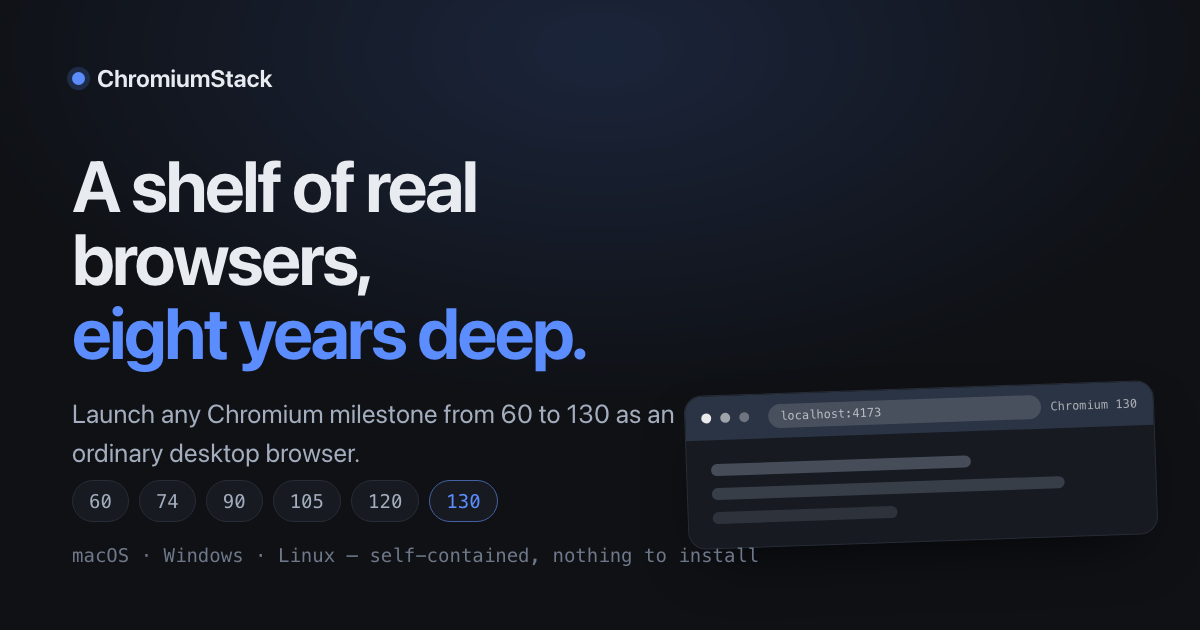
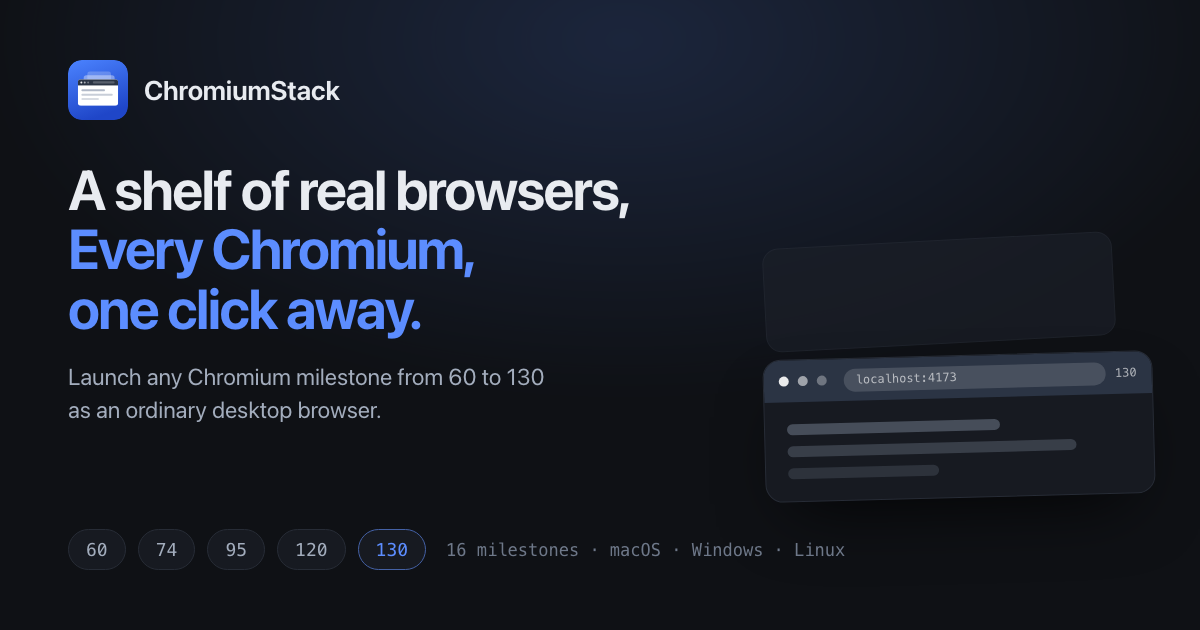
feat: update landing page

diff --git a/docs/index.html b/docs/index.html
@@ -59,8 +59,12 @@ a{color:var(--accent);text-decoration:none}
 a:hover{color:var(--ink);text-decoration:underline}
 :focus-visible{outline:2px solid var(--accent);outline-offset:3px;border-radius:4px}
 summary::-webkit-details-marker{display:none}
+.ic{width:1em;height:1em;flex:none;fill:none;stroke:currentColor;stroke-width:1.7;stroke-linecap:round;stroke-linejoin:round;overflow:visible}
+.ic-lg{width:1.15em;height:1.15em}
 .skip{position:absolute;left:-9999px;top:0;z-index:50;padding:10px 16px;border-radius:0 0 10px 0;background:var(--accent);color:#fff;font-size:14px;font-weight:600}
 .skip:focus{left:0;color:#fff;text-decoration:none}
+[data-lp] header{transition:box-shadow .25s,background-color .25s}
+[data-lp] header[data-stuck]{box-shadow:0 10px 30px -18px rgba(0,0,0,.7);background:color-mix(in srgb,var(--bg) 92%,transparent)}
 [data-reveal]{opacity:0;transform:translateY(22px);transition:opacity .75s cubic-bezier(.2,.7,.2,1),transform .75s cubic-bezier(.2,.7,.2,1)}
 [data-reveal="in"]{opacity:1;transform:none}
 details[open] [data-chev]{transform:rotate(45deg)}
@@ -84,11 +88,11 @@ details[open] [data-chev]{transform:rotate(45deg)}
   [data-r="hero"],[data-r="two"]{grid-template-columns:minmax(0,1fr)!important;gap:40px!important}
   [data-r="stack"]{height:340px!important;order:-1}
   [data-r="nav"]{display:none!important}
-  [data-lp] section,[data-lp] section>div{padding-top:56px!important;padding-bottom:56px!important}
+  [data-lp] section,[data-lp] .sec-wrap{padding-top:56px!important;padding-bottom:56px!important}
 }
 @media (max-width:680px){
   [data-lp] header{padding-left:18px!important;padding-right:18px!important;gap:10px}
-  [data-lp] section,[data-lp] section>div,[data-lp] footer>div{padding-left:18px!important;padding-right:18px!important}
+  [data-lp] section,[data-lp] .sec-wrap{padding-left:18px!important;padding-right:18px!important}
   [data-lp] [data-r="stack"]{height:270px!important}
   [data-lp] [data-r="ticks"] span{font-size:9px}
   [data-lp] [data-r="stats"]{gap:20px!important}
@@ -231,11 +235,32 @@ details[open] [data-chev]{transform:rotate(45deg)}
 </head>
 <body>
 
-<div data-lp style="position:relative;overflow:hidden">
+<div data-lp style="position:relative;overflow-x:clip">
 
 <a href="#content" class="skip">Skip to content</a>
 
+<svg width="0" height="0" style="position:absolute" aria-hidden="true" focusable="false"><defs>
+<symbol id="i-download" viewBox="0 0 24 24"><path d="M12 3v11"/><path d="M7.5 10.5 12 15l4.5-4.5"/><path d="M4 20h16"/></symbol>
+<symbol id="i-mac" viewBox="0 0 24 24"><rect x="2.5" y="4.5" width="19" height="13" rx="2.5"/><path d="M2.5 8.6h19"/><circle cx="5.7" cy="6.5" r=".95" fill="currentColor" stroke="none"/><circle cx="8.3" cy="6.5" r=".95" fill="currentColor" stroke="none"/><circle cx="10.9" cy="6.5" r=".95" fill="currentColor" stroke="none"/><path d="M8.5 20.5h7"/><path d="M12 17.5v3"/></symbol>
+<symbol id="i-windows" viewBox="0 0 24 24"><path fill="currentColor" stroke="none" d="M3 5.9 10.3 4.9v6.9H3zM11.6 4.7 21 3.3v8.5h-9.4zM3 12.9h7.3v6.9L3 18.8zM11.6 12.9H21v8.5l-9.4-1.4z"/></symbol>
+<symbol id="i-terminal" viewBox="0 0 24 24"><rect x="2.5" y="4.5" width="19" height="15" rx="2.5"/><path d="M7 9.6l3 2.9-3 2.9"/><path d="M12.6 15.4h4.8"/></symbol>
+<symbol id="i-monitor" viewBox="0 0 24 24"><rect x="2.5" y="4" width="19" height="12.5" rx="2"/><path d="M9 20.5h6"/><path d="M12 16.5v4"/></symbol>
+<symbol id="i-ticket" viewBox="0 0 24 24"><path d="M21 11.5c0 4.4-4 8-9 8a10 10 0 0 1-2.8-.4L4.5 21l1.7-4.2A7.6 7.6 0 0 1 3 11.5c0-4.4 4-8 9-8s9 3.6 9 8z"/><path d="M12 8.6v3.4"/><path d="M12 15.3v.01"/></symbol>
+<symbol id="i-list" viewBox="0 0 24 24"><path d="M9.5 6h11"/><path d="M9.5 12h11"/><path d="M9.5 18h11"/><path d="M3.5 5.9 4.7 7.1 6.9 4.8"/><path d="M3.5 11.9l1.2 1.2 2.2-2.3"/><path d="M3.5 17.9l1.2 1.2 2.2-2.3"/></symbol>
+<symbol id="i-branch" viewBox="0 0 24 24"><circle cx="6.5" cy="5.5" r="2.3"/><circle cx="6.5" cy="18.5" r="2.3"/><circle cx="17.5" cy="9" r="2.3"/><path d="M6.5 7.8v8.4"/><path d="M17.5 11.3c0 3.5-2.9 5-7.2 5.4"/></symbol>
+<symbol id="i-mail" viewBox="0 0 24 24"><rect x="2.5" y="5" width="19" height="14" rx="2.5"/><path d="M3.6 7.2 12 13l8.4-5.8"/></symbol>
+<symbol id="i-code" viewBox="0 0 24 24"><path d="M8.5 18 3.5 12l5-6"/><path d="M15.5 6l5 6-5 6"/><path d="M13.6 4.5 10.4 19.5"/></symbol>
+<symbol id="i-bulb" viewBox="0 0 24 24"><path d="M12 3a6 6 0 0 0-3.6 10.8c.7.6 1.1 1.3 1.1 2.2h5c0-.9.4-1.6 1.1-2.2A6 6 0 0 0 12 3z"/><path d="M9.5 19h5"/><path d="M10.5 21.5h3"/></symbol>
+<symbol id="i-box" viewBox="0 0 24 24"><rect x="3" y="9.5" width="6" height="5" rx="1"/><rect x="10.2" y="9.5" width="6" height="5" rx="1"/><rect x="10.2" y="4" width="6" height="5" rx="1"/><path d="M2 17.4c2.4 2.9 5.8 4 8.8 4 5.4 0 9-3 10.6-7.4-1.6-1-3.7-1-5.2 0"/></symbol>
+<symbol id="i-layers" viewBox="0 0 24 24"><path d="M12 3.2 21 7.8l-9 4.6-9-4.6z"/><path d="M3.3 12.4 12 16.9l8.7-4.5"/><path d="M3.3 16.6 12 21.1l8.7-4.5"/></symbol>
+<symbol id="i-zap" viewBox="0 0 24 24"><path d="M13.2 2.5 5 13.6h6.1l-1.3 7.9 8.2-11.1h-6.1z"/></symbol>
+<symbol id="i-help" viewBox="0 0 24 24"><circle cx="12" cy="12" r="8.8"/><path d="M9.6 9.5a2.5 2.5 0 0 1 4.9.6c0 1.7-2.5 2.1-2.5 3.8"/><path d="M12 17.3v.01"/></symbol>
+</defs></svg>
+
+
+<div aria-hidden="true" style="position:absolute;inset:0;overflow:hidden;pointer-events:none;z-index:0">
 <div style="position:absolute;top:-260px;left:50%;width:1200px;height:620px;margin-left:-600px;background:radial-gradient(closest-side,var(--accent),transparent);opacity:.14;filter:blur(20px);pointer-events:none;animation:glowdrift 18s ease-in-out infinite"></div>
+</div>
 
 <header style="position:sticky;top:0;z-index:20;display:flex;align-items:center;gap:14px;padding:13px 28px;background:color-mix(in srgb,var(--bg) 82%,transparent);backdrop-filter:blur(14px);border-bottom:1px solid var(--line)">
   <div style="display:flex;align-items:center;gap:9px">
@@ -252,7 +277,7 @@ details[open] [data-chev]{transform:rotate(45deg)}
     <a href="#contact" style="color:inherit">Contact</a>
   </nav>
   <button id="themeBtn" type="button" title="Switch theme" aria-label="Switch colour theme" style="display:flex;align-items:center;gap:7px;font:inherit;font-size:12.5px;padding:6px 11px;border:1px solid var(--line);border-radius:999px;background:var(--panel);color:var(--ink-2);cursor:pointer;transition:border-color .2s,color .2s" class="hv-theme"><span id="themeLabel">Light</span></button>
-  <a href="#download" style="font-size:13px;font-weight:600;padding:7px 15px;border-radius:999px;background:var(--accent);color:#fff;transition:transform .18s,box-shadow .18s" class="hv-pill">Download</a>
+  <a href="#download" style="display:inline-flex;align-items:center;gap:7px;font-size:13px;font-weight:600;padding:7px 15px;border-radius:999px;background:var(--accent);color:#fff;transition:transform .18s,box-shadow .18s" class="hv-pill"><svg class="ic" aria-hidden="true"><use href="#i-download"/></svg><span>Download</span></a>
 </header>
 
 <main id="content">
@@ -262,7 +287,7 @@ details[open] [data-chev]{transform:rotate(45deg)}
     <h1 data-reveal style="margin:0;font-size:clamp(40px,5.2vw,64px);line-height:1.02;letter-spacing:-.035em;font-weight:680;text-wrap:balance">A shelf of real browsers,<br><span style="color:var(--accent)">Every Chromium, one click away.</span></h1>
     <p data-reveal style="margin:24px 0 0;max-width:46ch;font-size:18px;line-height:1.6;color:var(--ink-2);text-wrap:pretty">Pick a Chromium version, press Launch, and it opens as an ordinary desktop browser — tabs, bookmarks, DevTools and all. No account, no build step, nothing to configure.</p>
     <div data-reveal style="display:flex;flex-wrap:wrap;gap:12px;margin-top:34px">
-      <a href="#download" style="display:flex;align-items:center;gap:9px;font-size:15px;font-weight:600;padding:13px 22px;border-radius:11px;background:var(--accent);color:#fff;box-shadow:0 14px 30px -14px var(--accent);transition:transform .18s" class="hv-cta">Download for your platform</a>
+      <a href="#download" style="display:flex;align-items:center;gap:9px;font-size:15px;font-weight:600;padding:13px 22px;border-radius:11px;background:var(--accent);color:#fff;box-shadow:0 14px 30px -14px var(--accent);transition:transform .18s" class="hv-cta"><svg class="ic ic-lg" aria-hidden="true"><use href="#i-download"/></svg><span>Download for your platform</span></a>
     </div>
     <div data-reveal data-stats data-r="stats" style="display:flex;flex-wrap:wrap;gap:34px;margin-top:44px;padding-top:28px;border-top:1px solid var(--line)">
       <div><div style="font-size:26px;font-weight:650;letter-spacing:-.02em;font-variant-numeric:tabular-nums"><span id="statM">0</span></div><div style="margin-top:3px;font-size:12.5px;color:var(--ink-3)">milestones catalogued</div></div>
@@ -311,28 +336,28 @@ details[open] [data-chev]{transform:rotate(45deg)}
 </section>
 
 <section id="why" style="max-width:1160px;margin:0 auto;padding:76px 28px">
-  <div data-reveal style="font-family:var(--mono);font-size:11.5px;letter-spacing:.08em;text-transform:uppercase;color:var(--ink-3)">Why people keep one of these around</div>
+  <div data-reveal style="display:inline-flex;align-items:center;gap:8px;font-family:var(--mono);font-size:11.5px;letter-spacing:.08em;text-transform:uppercase;color:var(--ink-3)"><svg class="ic" aria-hidden="true"><use href="#i-help"/></svg><span>Why people keep one of these around</span></div>
   <h2 data-reveal style="margin:14px 0 0;max-width:30ch;font-size:clamp(28px,3.4vw,40px);line-height:1.12;letter-spacing:-.028em;font-weight:660;text-wrap:balance">Modern browsers are excellent liars.</h2>
   <p data-reveal style="margin:18px 0 0;max-width:62ch;font-size:16.5px;line-height:1.65;color:var(--ink-2);text-wrap:pretty">They quietly polyfill, gracefully degrade and make your site look finished — right up until it meets an engine from 2019, where an unsupported CSS declaration is <strong style="color:var(--ink);font-weight:600">dropped, not degraded</strong>, and a layout falls apart in a way nothing on your machine will ever show you.</p>
 
   <div style="display:grid;grid-template-columns:repeat(auto-fit,minmax(255px,1fr));gap:16px;margin-top:44px">
     <div data-reveal style="padding:24px;border:1px solid var(--line);border-radius:14px;background:var(--panel);transition:transform .25s,border-color .25s,box-shadow .25s" class="hv-card">
-      <div style="font-family:var(--mono);font-size:11px;letter-spacing:.06em;text-transform:uppercase;color:var(--accent)">Kiosks &amp; devices</div>
+      <div style="display:inline-flex;align-items:center;gap:8px;font-family:var(--mono);font-size:11px;letter-spacing:.06em;text-transform:uppercase;color:var(--accent)"><svg class="ic" aria-hidden="true"><use href="#i-monitor"/></svg><span>Kiosks &amp; devices</span></div>
       <p style="margin:12px 0 0;font-size:14.5px;line-height:1.6;color:var(--ink-2)">POS terminals, scanners and industrial tablets ship a System WebView years behind the OS. It is the <em>engine</em> that decides whether your CSS survives.</p>
       <p style="margin:14px 0 0;padding-top:14px;border-top:1px solid var(--line);font-size:14.5px;line-height:1.6;color:var(--ink)">The same engine on your desk, in a window you can click around in.</p>
     </div>
     <div data-reveal style="padding:24px;border:1px solid var(--line);border-radius:14px;background:var(--panel);transition:transform .25s,border-color .25s,box-shadow .25s" class="hv-card">
-      <div style="font-family:var(--mono);font-size:11px;letter-spacing:.06em;text-transform:uppercase;color:var(--accent)">The support ticket</div>
+      <div style="display:inline-flex;align-items:center;gap:8px;font-family:var(--mono);font-size:11px;letter-spacing:.06em;text-transform:uppercase;color:var(--accent)"><svg class="ic" aria-hidden="true"><use href="#i-ticket"/></svg><span>The support ticket</span></div>
       <p style="margin:12px 0 0;font-size:14.5px;line-height:1.6;color:var(--ink-2)">A customer on a locked-down browser reports a bug you cannot reproduce anywhere.</p>
       <p style="margin:14px 0 0;padding-top:14px;border-top:1px solid var(--line);font-size:14.5px;line-height:1.6;color:var(--ink)">Open their engine, load the page, see it happen.</p>
     </div>
     <div data-reveal style="padding:24px;border:1px solid var(--line);border-radius:14px;background:var(--panel);transition:transform .25s,border-color .25s,box-shadow .25s" class="hv-card">
-      <div style="font-family:var(--mono);font-size:11px;letter-spacing:.06em;text-transform:uppercase;color:var(--accent)">The browserslist claim</div>
+      <div style="display:inline-flex;align-items:center;gap:8px;font-family:var(--mono);font-size:11px;letter-spacing:.06em;text-transform:uppercase;color:var(--accent)"><svg class="ic" aria-hidden="true"><use href="#i-list"/></svg><span>The browserslist claim</span></div>
       <p style="margin:12px 0 0;font-size:14.5px;line-height:1.6;color:var(--ink-2)">Your config promises support for an old floor. Nobody has ever checked.</p>
       <p style="margin:14px 0 0;padding-top:14px;border-top:1px solid var(--line);font-size:14.5px;line-height:1.6;color:var(--ink)">Two minutes to find out whether the promise is true.</p>
     </div>
     <div data-reveal style="padding:24px;border:1px solid var(--line);border-radius:14px;background:var(--panel);transition:transform .25s,border-color .25s,box-shadow .25s" class="hv-card">
-      <div style="font-family:var(--mono);font-size:11px;letter-spacing:.06em;text-transform:uppercase;color:var(--accent)">The regression hunt</div>
+      <div style="display:inline-flex;align-items:center;gap:8px;font-family:var(--mono);font-size:11px;letter-spacing:.06em;text-transform:uppercase;color:var(--accent)"><svg class="ic" aria-hidden="true"><use href="#i-branch"/></svg><span>The regression hunt</span></div>
       <p style="margin:12px 0 0;font-size:14.5px;line-height:1.6;color:var(--ink-2)">Something broke <em>somewhere</em> between two releases.</p>
       <p style="margin:14px 0 0;padding-top:14px;border-top:1px solid var(--line);font-size:14.5px;line-height:1.6;color:var(--ink)">90, 105 and 120 open side by side, bisected by eye.</p>
     </div>
@@ -340,7 +365,7 @@ details[open] [data-chev]{transform:rotate(45deg)}
 </section>
 
 <section id="start" style="max-width:1160px;margin:0 auto;padding:76px 28px">
-  <h2 data-reveal style="margin:0;font-family:var(--mono);font-size:11.5px;font-weight:400;letter-spacing:.08em;text-transform:uppercase;color:var(--ink-3)">Sixty seconds to your first old browser</h2>
+  <h2 data-reveal style="display:inline-flex;align-items:center;gap:8px;margin:0;font-family:var(--mono);font-size:11.5px;font-weight:400;letter-spacing:.08em;text-transform:uppercase;color:var(--ink-3)"><svg class="ic" aria-hidden="true"><use href="#i-zap"/></svg><span>Sixty seconds to your first old browser</span></h2>
   <div style="display:grid;grid-template-columns:repeat(auto-fit,minmax(260px,1fr));gap:26px;margin-top:32px">
     <div data-reveal>
       <div style="display:flex;align-items:center;gap:10px"><span style="display:flex;align-items:center;justify-content:center;width:26px;height:26px;border-radius:8px;background:color-mix(in srgb,var(--accent) 16%,transparent);color:var(--accent);font-family:var(--mono);font-size:12.5px;font-weight:600">1</span><h3 style="margin:0;font-size:17px;font-weight:620;letter-spacing:-.01em">Open it</h3></div>
@@ -367,14 +392,14 @@ details[open] [data-chev]{transform:rotate(45deg)}
   </figure>
 
   <div data-reveal style="display:flex;gap:14px;margin-top:26px;padding:18px 20px;border:1px solid color-mix(in srgb,var(--ok) 40%,var(--line));border-radius:12px;background:color-mix(in srgb,var(--ok) 7%,var(--panel))">
-    <span style="font-family:var(--mono);font-size:11px;letter-spacing:.06em;text-transform:uppercase;color:var(--ok);padding-top:2px">Tip</span>
+    <span style="font-family:var(--mono);font-size:11px;letter-spacing:.06em;text-transform:uppercase;color:var(--ok);padding-top:2px;display:inline-flex;align-items:center;gap:7px"><svg class="ic" aria-hidden="true"><use href="#i-bulb"/></svg><span>Tip</span></span>
     <p style="margin:0;font-size:14.5px;line-height:1.62;color:var(--ink-2)">Type a URL in the box at the top of the manager and <strong style="color:var(--ink);font-weight:600">every</strong> version you launch opens straight to it. <code style="font-family:var(--mono);font-size:13px;color:var(--ink)">localhost:4173</code> is fine — it is the fastest way to compare four engines on the same page.</p>
   </div>
 </section>
 
 <section id="shelf" style="border-top:1px solid var(--line);border-bottom:1px solid var(--line);background:var(--panel-2)">
-  <div style="max-width:1160px;margin:0 auto;padding:76px 28px">
-    <div data-reveal style="font-family:var(--mono);font-size:11.5px;letter-spacing:.08em;text-transform:uppercase;color:var(--ink-3)">The version shelf</div>
+  <div class="sec-wrap" style="max-width:1160px;margin:0 auto;padding:76px 28px">
+    <div data-reveal style="display:inline-flex;align-items:center;gap:8px;font-family:var(--mono);font-size:11.5px;letter-spacing:.08em;text-transform:uppercase;color:var(--ink-3)"><svg class="ic" aria-hidden="true"><use href="#i-layers"/></svg><span>The version shelf</span></div>
     <h2 data-reveal style="margin:14px 0 0;max-width:34ch;font-size:clamp(26px,3.2vw,38px);line-height:1.14;letter-spacing:-.028em;font-weight:660;text-wrap:balance">Sixteen milestones, verified against the live archive.</h2>
     <p data-reveal style="margin:16px 0 0;max-width:58ch;font-size:16px;line-height:1.65;color:var(--ink-2)">And any other snapshot revision works too. Drag the scrubber, or click a year.</p>
 
@@ -447,7 +472,7 @@ details[open] [data-chev]{transform:rotate(45deg)}
 <section id="cli" style="max-width:1160px;margin:0 auto;padding:84px 28px">
   <div data-r="two" style="display:grid;grid-template-columns:minmax(0,.85fr) minmax(0,1.15fr);gap:52px;align-items:center">
     <div>
-      <div data-reveal style="font-family:var(--mono);font-size:11.5px;letter-spacing:.08em;text-transform:uppercase;color:var(--ink-3)">For terminal people</div>
+      <div data-reveal style="display:inline-flex;align-items:center;gap:8px;font-family:var(--mono);font-size:11.5px;letter-spacing:.08em;text-transform:uppercase;color:var(--ink-3)"><svg class="ic" aria-hidden="true"><use href="#i-terminal"/></svg><span>For terminal people</span></div>
       <h2 data-reveal style="margin:14px 0 0;font-size:clamp(26px,3.2vw,38px);line-height:1.14;letter-spacing:-.028em;font-weight:660;text-wrap:balance">The manager is a front end for the CLI.</h2>
       <p data-reveal style="margin:16px 0 0;font-size:16px;line-height:1.65;color:var(--ink-2);text-wrap:pretty">Both do the same things, so they cannot drift apart. Flags for <code style="font-family:var(--mono);font-size:14px;color:var(--ink)">run</code>: <code style="font-family:var(--mono);font-size:14px;color:var(--ink)">--size 1280x800</code>, <code style="font-family:var(--mono);font-size:14px;color:var(--ink)">--gpu</code> / <code style="font-family:var(--mono);font-size:14px;color:var(--ink)">--no-gpu</code>, <code style="font-family:var(--mono);font-size:14px;color:var(--ink)">--no-restart</code>, and anything after <code style="font-family:var(--mono);font-size:14px;color:var(--ink)">--</code> goes straight to Chromium.</p>
       <p data-reveal style="margin:16px 0 0;font-size:16px;line-height:1.65;color:var(--ink-2)">Windows runs the same commands through <code style="font-family:var(--mono);font-size:14px;color:var(--ink)">.\chromium-stack.ps1</code>.</p>
@@ -469,9 +494,9 @@ details[open] [data-chev]{transform:rotate(45deg)}
 </section>
 
 <section style="border-top:1px solid var(--line);background:var(--panel-2)">
-  <div data-r="two" style="max-width:1160px;margin:0 auto;padding:76px 28px;display:grid;grid-template-columns:minmax(0,1fr) minmax(0,1fr);gap:52px">
+  <div class="sec-wrap" data-r="two" style="max-width:1160px;margin:0 auto;padding:76px 28px;display:grid;grid-template-columns:minmax(0,1fr) minmax(0,1fr);gap:52px">
     <div>
-      <div data-reveal style="font-family:var(--mono);font-size:11.5px;letter-spacing:.08em;text-transform:uppercase;color:var(--ink-3)">Docker edition</div>
+      <div data-reveal style="display:inline-flex;align-items:center;gap:8px;font-family:var(--mono);font-size:11.5px;letter-spacing:.08em;text-transform:uppercase;color:var(--ink-3)"><svg class="ic" aria-hidden="true"><use href="#i-box"/></svg><span>Docker edition</span></div>
       <h2 data-reveal style="margin:14px 0 0;font-size:clamp(24px,2.7vw,32px);line-height:1.16;letter-spacing:-.026em;font-weight:660;text-wrap:balance">The Linux build in a container, shown in a browser tab.</h2>
       <p data-reveal style="margin:16px 0 0;font-size:15.5px;line-height:1.65;color:var(--ink-2);text-wrap:pretty">Runs the Linux x86_64 build in a container and shows its desktop in a tab of your normal browser, over noVNC. It never touches Rosetta, so on Apple Silicon it sidesteps the stack-profiler crash.</p>
       <p data-reveal style="margin:16px 0 0;font-size:15.5px;line-height:1.65;color:var(--ink-2);text-wrap:pretty">Each version gets its own image, container, profile volume and port, so several can run side by side. <strong style="color:var(--ink);font-weight:600">Docker is optional</strong>, and the native launcher is what most people should use.</p>
@@ -489,24 +514,35 @@ details[open] [data-chev]{transform:rotate(45deg)}
 </section>
 
 <section id="download" style="max-width:1160px;margin:0 auto;padding:88px 28px">
-  <div data-reveal style="font-family:var(--mono);font-size:11.5px;letter-spacing:.08em;text-transform:uppercase;color:var(--ink-3)">Download</div>
+  <div data-reveal style="display:inline-flex;align-items:center;gap:8px;font-family:var(--mono);font-size:11.5px;letter-spacing:.08em;text-transform:uppercase;color:var(--ink-3)"><svg class="ic" aria-hidden="true"><use href="#i-download"/></svg><span>Download</span></div>
   <h2 data-reveal style="margin:14px 0 0;max-width:32ch;font-size:clamp(28px,3.4vw,40px);line-height:1.12;letter-spacing:-.028em;font-weight:660;text-wrap:balance">Every download is self-contained.</h2>
   <p data-reveal style="margin:16px 0 0;max-width:60ch;font-size:16.5px;line-height:1.65;color:var(--ink-2);text-wrap:pretty">The launcher finds everything it needs inside the package. Nothing to install, nothing to keep together, no loose folder of files to lose.</p>
 
-  <div style="display:grid;grid-template-columns:repeat(auto-fit,minmax(268px,1fr));gap:16px;margin-top:40px">
-    <a data-reveal href="https://github.com/1m93/Chromium-Stack/releases/latest" target="_blank" rel="noopener noreferrer" style="display:block;padding:24px;border:1px solid var(--line);border-radius:14px;background:var(--panel);color:var(--ink);transition:transform .25s,border-color .25s,box-shadow .25s" class="hv-link">
-      <div style="font-size:18px;font-weight:640;letter-spacing:-.015em">macOS</div>
-      <div style="margin-top:10px;font-family:var(--mono);font-size:12.5px;color:var(--accent)">ChromiumStack-&lt;ver&gt;-macOS.zip</div>
+  <div data-reveal id="dlPrimary" style="display:flex;flex-wrap:wrap;align-items:center;gap:22px;margin-top:38px;padding:26px 28px;border:1px solid color-mix(in srgb,var(--accent) 45%,var(--line));border-radius:16px;background:var(--panel);box-shadow:var(--shadow)">
+    <div style="flex:1;min-width:250px">
+      <div id="dlLabel" style="display:inline-flex;align-items:center;gap:8px;font-family:var(--mono);font-size:11px;letter-spacing:.06em;text-transform:uppercase;color:var(--accent)"><svg class="ic" aria-hidden="true"><use href="#i-download"/></svg><span>Latest release</span></div>
+      <div id="dlName" style="margin-top:9px;font-size:22px;font-weight:640;letter-spacing:-.015em">ChromiumStack</div>
+      <div id="dlMeta" style="margin-top:7px;font-family:var(--mono);font-size:12.5px;color:var(--ink-3)">Pick the build for your platform below</div>
+    </div>
+    <a id="dlBtn" class="hv-cta" href="https://github.com/1m93/Chromium-Stack/releases/latest" target="_blank" rel="noopener noreferrer" style="display:inline-flex;align-items:center;gap:10px;font-size:15px;font-weight:600;padding:14px 24px;border-radius:11px;background:var(--accent);color:#fff;box-shadow:0 14px 30px -14px var(--accent);transition:transform .18s"><svg class="ic ic-lg" aria-hidden="true"><use href="#i-download"/></svg><span id="dlBtnText">Go to releases</span></a>
+  </div>
+
+  <div data-reveal id="dlAllLabel" style="display:inline-flex;align-items:center;gap:8px;margin-top:34px;font-family:var(--mono);font-size:11.5px;letter-spacing:.08em;text-transform:uppercase;color:var(--ink-3)"><svg class="ic" aria-hidden="true"><use href="#i-layers"/></svg><span>All platforms</span></div>
+
+  <div style="display:grid;grid-template-columns:repeat(auto-fit,minmax(268px,1fr));gap:16px;margin-top:18px">
+    <a data-os="mac" data-reveal href="https://github.com/1m93/Chromium-Stack/releases/latest" target="_blank" rel="noopener noreferrer" style="display:block;padding:24px;border:1px solid var(--line);border-radius:14px;background:var(--panel);color:var(--ink);transition:transform .25s,border-color .25s,box-shadow .25s" class="hv-link">
+      <div style="display:flex;align-items:center;gap:11px;font-size:18px;font-weight:640;letter-spacing:-.015em"><svg class="ic ic-lg" aria-hidden="true"><use href="#i-mac"/></svg><span>macOS</span><span class="dl-badge" hidden style="margin-left:auto;padding:3px 9px;border-radius:999px;background:color-mix(in srgb,var(--accent) 16%,transparent);color:var(--accent);font-family:var(--mono);font-size:10.5px;letter-spacing:.05em;text-transform:uppercase;font-weight:600">Your platform</span></div>
+      <div class="dl-file" style="margin-top:10px;font-family:var(--mono);font-size:12.5px;color:var(--accent);word-break:break-all">ChromiumStack-&lt;ver&gt;-macOS.zip</div>
       <p style="margin:14px 0 0;font-size:14px;line-height:1.6;color:var(--ink-2)">Unzip → double-click <strong style="color:var(--ink);font-weight:600">ChromiumStack.app</strong> (drag it to Applications if you like)</p>
     </a>
-    <a data-reveal href="https://github.com/1m93/Chromium-Stack/releases/latest" target="_blank" rel="noopener noreferrer" style="display:block;padding:24px;border:1px solid var(--line);border-radius:14px;background:var(--panel);color:var(--ink);transition:transform .25s,border-color .25s,box-shadow .25s" class="hv-link">
-      <div style="font-size:18px;font-weight:640;letter-spacing:-.015em">Windows</div>
-      <div style="margin-top:10px;font-family:var(--mono);font-size:12.5px;color:var(--accent)">ChromiumStack-&lt;ver&gt;-Windows.zip</div>
+    <a data-os="win" data-reveal href="https://github.com/1m93/Chromium-Stack/releases/latest" target="_blank" rel="noopener noreferrer" style="display:block;padding:24px;border:1px solid var(--line);border-radius:14px;background:var(--panel);color:var(--ink);transition:transform .25s,border-color .25s,box-shadow .25s" class="hv-link">
+      <div style="display:flex;align-items:center;gap:11px;font-size:18px;font-weight:640;letter-spacing:-.015em"><svg class="ic ic-lg" aria-hidden="true"><use href="#i-windows"/></svg><span>Windows</span><span class="dl-badge" hidden style="margin-left:auto;padding:3px 9px;border-radius:999px;background:color-mix(in srgb,var(--accent) 16%,transparent);color:var(--accent);font-family:var(--mono);font-size:10.5px;letter-spacing:.05em;text-transform:uppercase;font-weight:600">Your platform</span></div>
+      <div class="dl-file" style="margin-top:10px;font-family:var(--mono);font-size:12.5px;color:var(--accent);word-break:break-all">ChromiumStack-&lt;ver&gt;-Windows.zip</div>
       <p style="margin:14px 0 0;font-size:14px;line-height:1.6;color:var(--ink-2)">Unzip → double-click <strong style="color:var(--ink);font-weight:600">ChromiumStack.exe</strong></p>
     </a>
-    <a data-reveal href="https://github.com/1m93/Chromium-Stack/releases/latest" target="_blank" rel="noopener noreferrer" style="display:block;padding:24px;border:1px solid var(--line);border-radius:14px;background:var(--panel);color:var(--ink);transition:transform .25s,border-color .25s,box-shadow .25s" class="hv-link">
-      <div style="font-size:18px;font-weight:640;letter-spacing:-.015em">Linux</div>
-      <div style="margin-top:10px;font-family:var(--mono);font-size:12.5px;color:var(--accent)">ChromiumStack-&lt;ver&gt;-Linux.tar.gz</div>
+    <a data-os="linux" data-reveal href="https://github.com/1m93/Chromium-Stack/releases/latest" target="_blank" rel="noopener noreferrer" style="display:block;padding:24px;border:1px solid var(--line);border-radius:14px;background:var(--panel);color:var(--ink);transition:transform .25s,border-color .25s,box-shadow .25s" class="hv-link">
+      <div style="display:flex;align-items:center;gap:11px;font-size:18px;font-weight:640;letter-spacing:-.015em"><svg class="ic ic-lg" aria-hidden="true"><use href="#i-terminal"/></svg><span>Linux</span><span class="dl-badge" hidden style="margin-left:auto;padding:3px 9px;border-radius:999px;background:color-mix(in srgb,var(--accent) 16%,transparent);color:var(--accent);font-family:var(--mono);font-size:10.5px;letter-spacing:.05em;text-transform:uppercase;font-weight:600">Your platform</span></div>
+      <div class="dl-file" style="margin-top:10px;font-family:var(--mono);font-size:12.5px;color:var(--accent);word-break:break-all">ChromiumStack-&lt;ver&gt;-Linux.tar.gz</div>
       <p style="margin:14px 0 0;font-size:14px;line-height:1.6;color:var(--ink-2)">Extract → run <strong style="color:var(--ink);font-weight:600">./ChromiumStack</strong></p>
     </a>
   </div>
@@ -518,8 +554,8 @@ details[open] [data-chev]{transform:rotate(45deg)}
 </section>
 
 <section id="faq" style="border-top:1px solid var(--line);background:var(--panel-2)">
-  <div style="max-width:900px;margin:0 auto;padding:76px 28px">
-    <div data-reveal style="font-family:var(--mono);font-size:11.5px;letter-spacing:.08em;text-transform:uppercase;color:var(--ink-3)">Good to know</div>
+  <div class="sec-wrap" style="max-width:900px;margin:0 auto;padding:76px 28px">
+    <div data-reveal style="display:inline-flex;align-items:center;gap:8px;font-family:var(--mono);font-size:11.5px;letter-spacing:.08em;text-transform:uppercase;color:var(--ink-3)"><svg class="ic" aria-hidden="true"><use href="#i-bulb"/></svg><span>Good to know</span></div>
     <h2 data-reveal style="margin:14px 0 34px;font-size:clamp(26px,3.2vw,36px);line-height:1.14;letter-spacing:-.028em;font-weight:660">The honest caveats.</h2>
 
     <details data-reveal style="border-top:1px solid var(--line);padding:20px 0">
@@ -576,18 +612,18 @@ details[open] [data-chev]{transform:rotate(45deg)}
 </section>
 
 <section id="contact" style="max-width:1160px;margin:0 auto;padding:84px 28px">
-  <div data-reveal style="font-family:var(--mono);font-size:11.5px;letter-spacing:.08em;text-transform:uppercase;color:var(--ink-3)">Contact</div>
+  <div data-reveal style="display:inline-flex;align-items:center;gap:8px;font-family:var(--mono);font-size:11.5px;letter-spacing:.08em;text-transform:uppercase;color:var(--ink-3)"><svg class="ic" aria-hidden="true"><use href="#i-mail"/></svg><span>Contact</span></div>
   <h2 data-reveal style="margin:14px 0 0;max-width:30ch;font-size:clamp(26px,3.2vw,38px);line-height:1.14;letter-spacing:-.028em;font-weight:660;text-wrap:balance">Found something? Say so.</h2>
   <p data-reveal style="margin:16px 0 0;max-width:58ch;font-size:16.5px;line-height:1.65;color:var(--ink-2);text-wrap:pretty">Windows reports especially welcome — nothing on the Windows side has been run on Windows yet.</p>
 
   <div style="display:grid;grid-template-columns:repeat(auto-fit,minmax(280px,1fr));gap:16px;margin-top:38px">
     <a data-reveal href="mailto:1m93.contact@gmail.com" style="display:block;padding:24px;border:1px solid var(--line);border-radius:14px;background:var(--panel);color:var(--ink);transition:transform .25s,border-color .25s,box-shadow .25s" class="hv-link">
-      <div style="font-family:var(--mono);font-size:11px;letter-spacing:.06em;text-transform:uppercase;color:var(--accent)">Email</div>
+      <div style="display:inline-flex;align-items:center;gap:8px;font-family:var(--mono);font-size:11px;letter-spacing:.06em;text-transform:uppercase;color:var(--accent)"><svg class="ic" aria-hidden="true"><use href="#i-mail"/></svg><span>Email</span></div>
       <div style="margin-top:12px;font-family:var(--mono);font-size:15.5px;letter-spacing:-.01em">1m93.contact@gmail.com</div>
       <p style="margin:12px 0 0;font-size:14px;line-height:1.6;color:var(--ink-2)">For anything that does not belong in a public issue.</p>
     </a>
     <a data-reveal href="https://github.com/1m93" target="_blank" rel="noopener noreferrer" style="display:block;padding:24px;border:1px solid var(--line);border-radius:14px;background:var(--panel);color:var(--ink);transition:transform .25s,border-color .25s,box-shadow .25s" class="hv-link">
-      <div style="font-family:var(--mono);font-size:11px;letter-spacing:.06em;text-transform:uppercase;color:var(--accent)">GitHub</div>
+      <div style="display:inline-flex;align-items:center;gap:8px;font-family:var(--mono);font-size:11px;letter-spacing:.06em;text-transform:uppercase;color:var(--accent)"><svg class="ic" aria-hidden="true"><use href="#i-code"/></svg><span>GitHub</span></div>
       <div style="margin-top:12px;font-family:var(--mono);font-size:15.5px;letter-spacing:-.01em">github.com/1m93</div>
       <p style="margin:12px 0 0;font-size:14px;line-height:1.6;color:var(--ink-2)">Issues, releases and the source, all in one place.</p>
     </a>
@@ -597,13 +633,13 @@ details[open] [data-chev]{transform:rotate(45deg)}
 </main>
 
 <footer style="border-top:1px solid var(--line)">
-  <div style="max-width:1160px;margin:0 auto;padding:56px 28px;display:flex;flex-wrap:wrap;align-items:center;gap:20px">
+  <div class="sec-wrap" style="max-width:1160px;margin:0 auto;padding:56px 28px;display:flex;flex-wrap:wrap;align-items:center;gap:20px">
     <img src="assets/icon-512.png" alt="" width="44" height="44" loading="lazy" decoding="async" style="border-radius:11px" />
     <div style="flex:1;min-width:220px">
       <div style="font-size:14.5px;font-weight:620">ChromiumStack</div>
       <p style="margin:6px 0 0;font-size:13px;line-height:1.6;color:var(--ink-3);max-width:64ch;text-wrap:pretty">Built by <a href="https://github.com/1m93" target="_blank" rel="noopener noreferrer">@1m93</a>. Chromium builds come from the <a href="https://commondatastorage.googleapis.com/chromium-browser-snapshots/index.html" target="_blank" rel="noopener noreferrer">Chromium snapshot archive</a>; this project only downloads and launches them.</p>
     </div>
-    <a href="https://github.com/1m93/Chromium-Stack" target="_blank" rel="noopener noreferrer" style="font-size:13.5px;font-weight:600;padding:10px 18px;border-radius:10px;border:1px solid var(--line);background:var(--panel);color:var(--ink);transition:border-color .2s" class="hv-ghost">View on GitHub</a>
+    <a href="https://github.com/1m93/Chromium-Stack" target="_blank" rel="noopener noreferrer" style="display:inline-flex;align-items:center;gap:7px;font-size:13.5px;font-weight:600;padding:10px 18px;border-radius:10px;border:1px solid var(--line);background:var(--panel);color:var(--ink);transition:border-color .2s" class="hv-ghost"><svg class="ic" aria-hidden="true"><use href="#i-code"/></svg><span>View on GitHub</span></a>
   </div>
 </footer>
 
@@ -747,6 +783,106 @@ details[open] [data-chev]{transform:rotate(45deg)}
       render();
     }, 2300);
   }
+
+
+  /* ---------- sticky header shadow ---------- */
+  const header = document.querySelector('[data-lp] header');
+  const onScroll = () => {
+    if (window.scrollY > 8) header.setAttribute('data-stuck', '');
+    else header.removeAttribute('data-stuck');
+  };
+  addEventListener('scroll', onScroll, {passive: true});
+  onScroll();
+
+  /* ---------- download: detect platform, resolve the latest release asset ---------- */
+  const REPO = '1m93/Chromium-Stack';
+  const RELEASES = 'https://github.com/' + REPO + '/releases/latest';
+  const OS_NAME = {mac: 'macOS', win: 'Windows', linux: 'Linux'};
+  const ASSET = {mac: /macos\.zip$/i, win: /windows\.zip$/i, linux: /linux\.tar\.gz$/i};
+
+  function detectOS() {
+    const ua = navigator.userAgent;
+    const p = (navigator.userAgentData && navigator.userAgentData.platform) || navigator.platform || '';
+    const s = (p + ' ' + ua).toLowerCase();
+    if (/android/.test(s)) return null;              // not a desktop target
+    if (/mac|iphone|ipad|ipod/.test(s)) return 'mac';
+    if (/win/.test(s)) return 'win';
+    if (/linux|x11|cros/.test(s)) return 'linux';
+    return null;
+  }
+
+  const os = detectOS();
+  const dlBtn = $('dlBtn'), dlBtnText = $('dlBtnText'), dlName = $('dlName'), dlMeta = $('dlMeta');
+  const cards = {};
+  document.querySelectorAll('a[data-os]').forEach(a => { cards[a.dataset.os] = a; });
+
+  if (os && cards[os]) {
+    dlName.textContent = 'ChromiumStack for ' + OS_NAME[os];
+    dlBtnText.textContent = 'Download for ' + OS_NAME[os];
+    dlMeta.textContent = 'Checking the latest release…';
+    const badge = cards[os].querySelector('.dl-badge');
+    if (badge) badge.hidden = false;
+    cards[os].style.order = '-1';                    // your platform first in the grid
+    cards[os].style.borderColor = 'color-mix(in srgb,var(--accent) 45%,var(--line))';
+  }
+
+  const fmt = b => b >= 1048576 ? (b / 1048576).toFixed(1) + ' MB' : Math.round(b / 1024) + ' KB';
+
+  function applyRelease(rel) {
+    const tag = rel.tag_name || '';
+    const assets = rel.assets || [];
+    const find = k => assets.find(a => ASSET[k].test(a.name));
+
+    // per-platform cards: direct asset link + real file name and size
+    Object.keys(cards).forEach(k => {
+      const a = find(k);
+      const file = cards[k].querySelector('.dl-file');
+      if (a) {
+        cards[k].href = a.browser_download_url;
+        cards[k].removeAttribute('target');
+        if (file) file.textContent = a.name + ' · ' + fmt(a.size);
+      } else if (file && tag) {
+        file.textContent = file.textContent.replace('<ver>', tag);
+      }
+    });
+
+    const mine = os && find(os);
+    if (mine) {
+      dlBtn.href = mine.browser_download_url;
+      dlBtn.removeAttribute('target');
+      dlBtn.setAttribute('download', '');
+      dlMeta.textContent = mine.name + ' · ' + fmt(mine.size) + ' · ' + tag;
+    } else if (tag) {
+      // release exists but carries no build for this platform — say so, do not fake a link
+      dlMeta.textContent = os
+        ? tag + ' · no prebuilt ' + OS_NAME[os] + ' file yet — open the releases page'
+        : tag + ' · latest release';
+      if (os) dlBtnText.textContent = 'Open releases';
+    }
+  }
+
+  (async () => {
+    if (!dlBtn) return;
+    try {
+      const cached = sessionStorage.getItem('cs-release');
+      if (cached) { applyRelease(JSON.parse(cached)); return; }
+    } catch {}
+    try {
+      const r = await fetch('https://api.github.com/repos/' + REPO + '/releases/latest',
+                            {headers: {Accept: 'application/vnd.github+json'}});
+      if (!r.ok) throw new Error(r.status);
+      const rel = await r.json();
+      const slim = {tag_name: rel.tag_name,
+                    assets: (rel.assets || []).map(a => ({name: a.name, size: a.size,
+                                                          browser_download_url: a.browser_download_url}))};
+      try { sessionStorage.setItem('cs-release', JSON.stringify(slim)); } catch {}
+      applyRelease(slim);
+    } catch {
+      // offline, rate-limited or blocked: the static links to the releases page still work
+      dlMeta.textContent = 'Pick the build for your platform below';
+      if (os) dlBtnText.textContent = 'Download for ' + OS_NAME[os];
+    }
+  })();
 
   /* ---------- terminal typing ---------- */
   const histEl = $('hist'), typedEl = $('typed');
